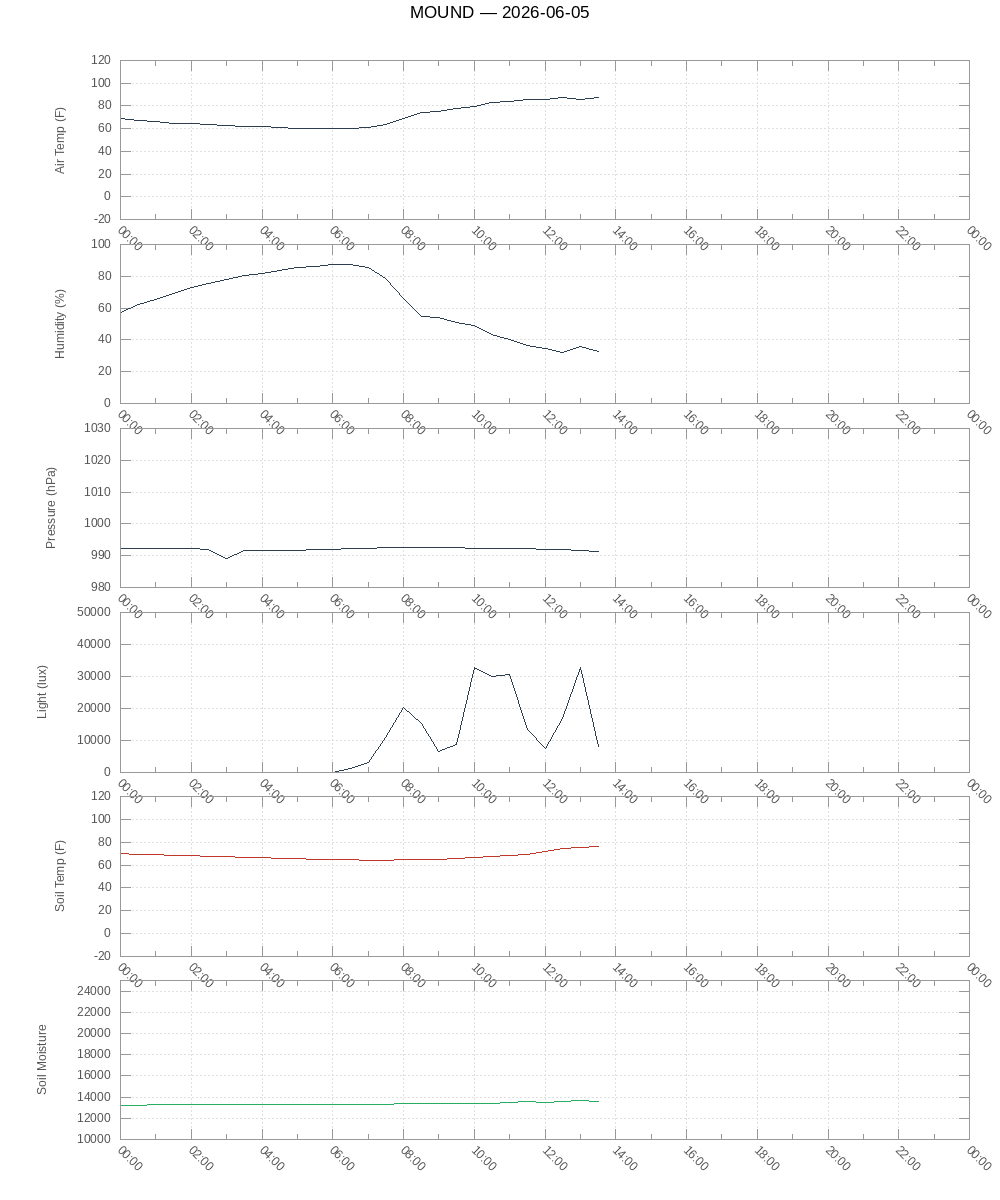
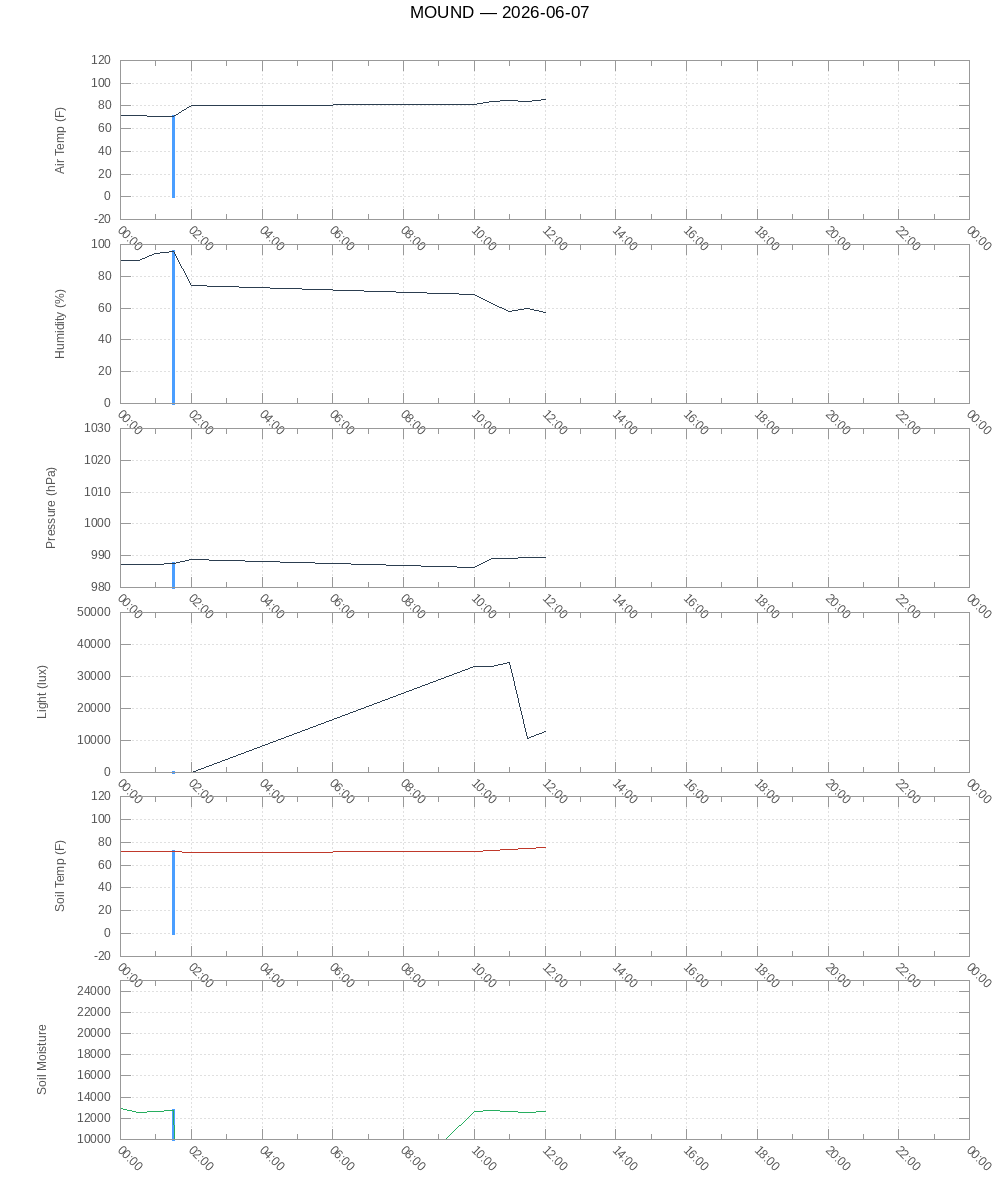
new ip

Changed region(s): [[0.155, 0.2158, 0.186, 0.2775], [0.155, 0.7092, 0.186, 0.74], [0.155, 0.0925, 0.186, 0.1233]]

diff --git a/mound/index.html b/mound/index.html
@@ -38,21 +38,21 @@
 
       <hr style="border:none; border-top: 1px solid #ccc; margin: 1rem 0;">
 
-      <p><strong>Last reading:</strong> 2026-06-05 14:00:04</p>
+      <p><strong>Last reading:</strong> 2026-06-07 12:30:04</p>
 
       <table style="border:none; border-collapse:collapse; font-family:inherit; font-size:inherit; color:inherit;">
-        <tr><td style="padding: 0.2rem 1.5rem 0.2rem 0;">Air Temperature</td><td>85.6 F</td></tr>
-        <tr><td style="padding: 0.2rem 1.5rem 0.2rem 0;">Humidity</td><td>33.1%</td></tr>
-        <tr><td style="padding: 0.2rem 1.5rem 0.2rem 0;">Pressure</td><td>990.9 hPa</td></tr>
-        <tr><td style="padding: 0.2rem 1.5rem 0.2rem 0;">Light</td><td>8123 lux</td></tr>
-        <tr><td style="padding: 0.2rem 1.5rem 0.2rem 0;">Soil Temperature</td><td>76.7 F</td></tr>
-        <tr><td style="padding: 0.2rem 1.5rem 0.2rem 0;">Soil Moisture</td><td>Moist</td></tr>
+        <tr><td style="padding: 0.2rem 1.5rem 0.2rem 0;">Air Temperature</td><td>86.7 F</td></tr>
+        <tr><td style="padding: 0.2rem 1.5rem 0.2rem 0;">Humidity</td><td>59.9%</td></tr>
+        <tr><td style="padding: 0.2rem 1.5rem 0.2rem 0;">Pressure</td><td>989.0 hPa</td></tr>
+        <tr><td style="padding: 0.2rem 1.5rem 0.2rem 0;">Light</td><td>30547 lux</td></tr>
+        <tr><td style="padding: 0.2rem 1.5rem 0.2rem 0;">Soil Temperature</td><td>77.3 F</td></tr>
+        <tr><td style="padding: 0.2rem 1.5rem 0.2rem 0;">Soil Moisture</td><td>Saturated</td></tr>
         <tr><td style="padding: 0.2rem 1.5rem 0.2rem 0;">Rain</td><td>No</td></tr>
       </table>
 
       <hr style="border:none; border-top: 1px solid #ccc; margin: 1rem 0;">
 
-      <p><strong>Today -- 2026-06-05</strong></p>
+      <p><strong>Today -- 2026-06-07</strong></p>
 
       <figure>
         <img src="graphs/today.png"
@@ -90,7 +90,7 @@
 
     </blockquote>
 
-    <p style="font-size: 0.85rem; color: #999;">2026-06-05 · auto-generated</p>
+    <p style="font-size: 0.85rem; color: #999;">2026-06-07 · auto-generated</p>
 
   </div>
 

diff --git a/mylinks.html b/mylinks.html
@@ -29,9 +29,9 @@
 <blockquote>
 <p><b>| LINKS |</b></p><h2>- Internal -</h2><p><a href="https://yesteryearforever.xyz/freshrss">FreshRSS</a>
 <br/><br/>
-<a href="http://174.102.120.6:1981">cardboard pixel</a>
+<a href="http://173.88.148.230:1981">cardboard pixel</a>
 <br/><br/>
-<a href="http://174.102.120.6:1234">green lamp</a>
+<a href="http://173.88.148.230:1234">green lamp</a>
 <br/><br/>
 <a href="desiderata.html">DESIDERATA</a>
 <br/><br/>